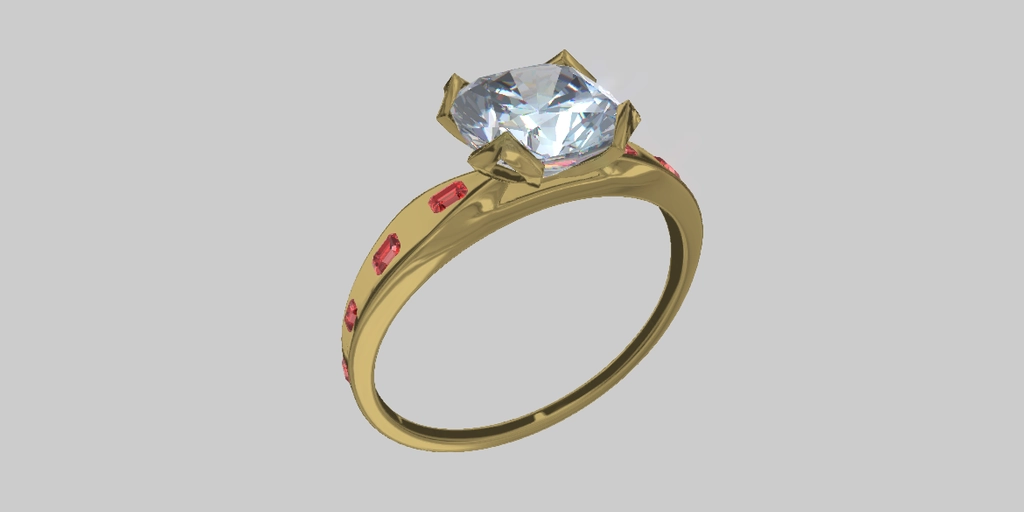
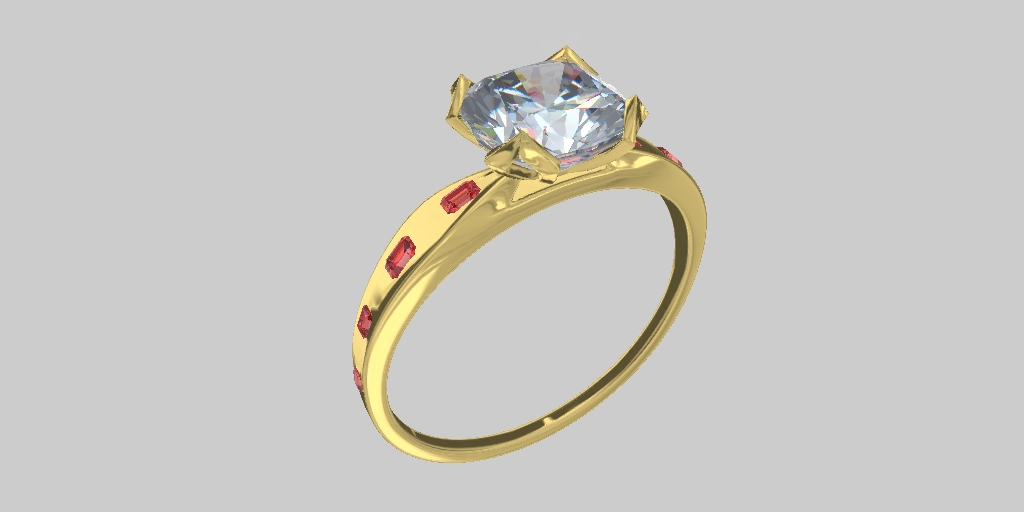
Jewelry: better illustration

Changed region(s): [[0.3125, 0.0938, 0.6875, 0.9062]]

diff --git a/index.html b/index.html
@@ -11,7 +11,7 @@
     <link rel="icon" type="image/png" href="favicon-16x16.png" sizes="16x16">
     <link rel="icon" type="image/png" href="favicon-32x32.png" sizes="32x32">
     <link rel="icon" type="image/png" href="favicon-96x96.png" sizes="96x96">
-    <link rel="stylesheet" type="text/css" href="css/page.css?v=2023-02-05T15%3A41%3A33.574Z">
+    <link rel="stylesheet" type="text/css" href="css/page.css?v=2023-02-05T16%3A19%3A01.918Z">
   </head>
 
   <body>
@@ -107,7 +107,7 @@
           <div class="projects-grid-cell">
             <h2 class="card-title">Jewelry</h2>
             <div class="card-frame">
[2 lines of base64/hex data omitted]
               <picture class="card-background card-image">
                 <source class="card-image" srcset="images/projects/jewelry_512.webp, images/projects/jewelry_1024.webp 1.1x">
                 <img class="card-image" src="images/projects/jewelry_512.jpg" alt="Illustration for Jewelry" />
@@ -690,11 +690,11 @@
     <script type="text/javascript">
       var Page = Page || {};
       Object.defineProperty(Page, "version", {
-        value: "2023-02-05T15%3A41%3A33.574Z",
+        value: "2023-02-05T16%3A19%3A01.918Z",
         writable: false,
       });
     </script>
-    <script src="script/page.min.js?v=2023-02-05T15%3A41%3A33.574Z"></script>
+    <script src="script/page.min.js?v=2023-02-05T16%3A19%3A01.918Z"></script>
   </body>
 
 </html>
